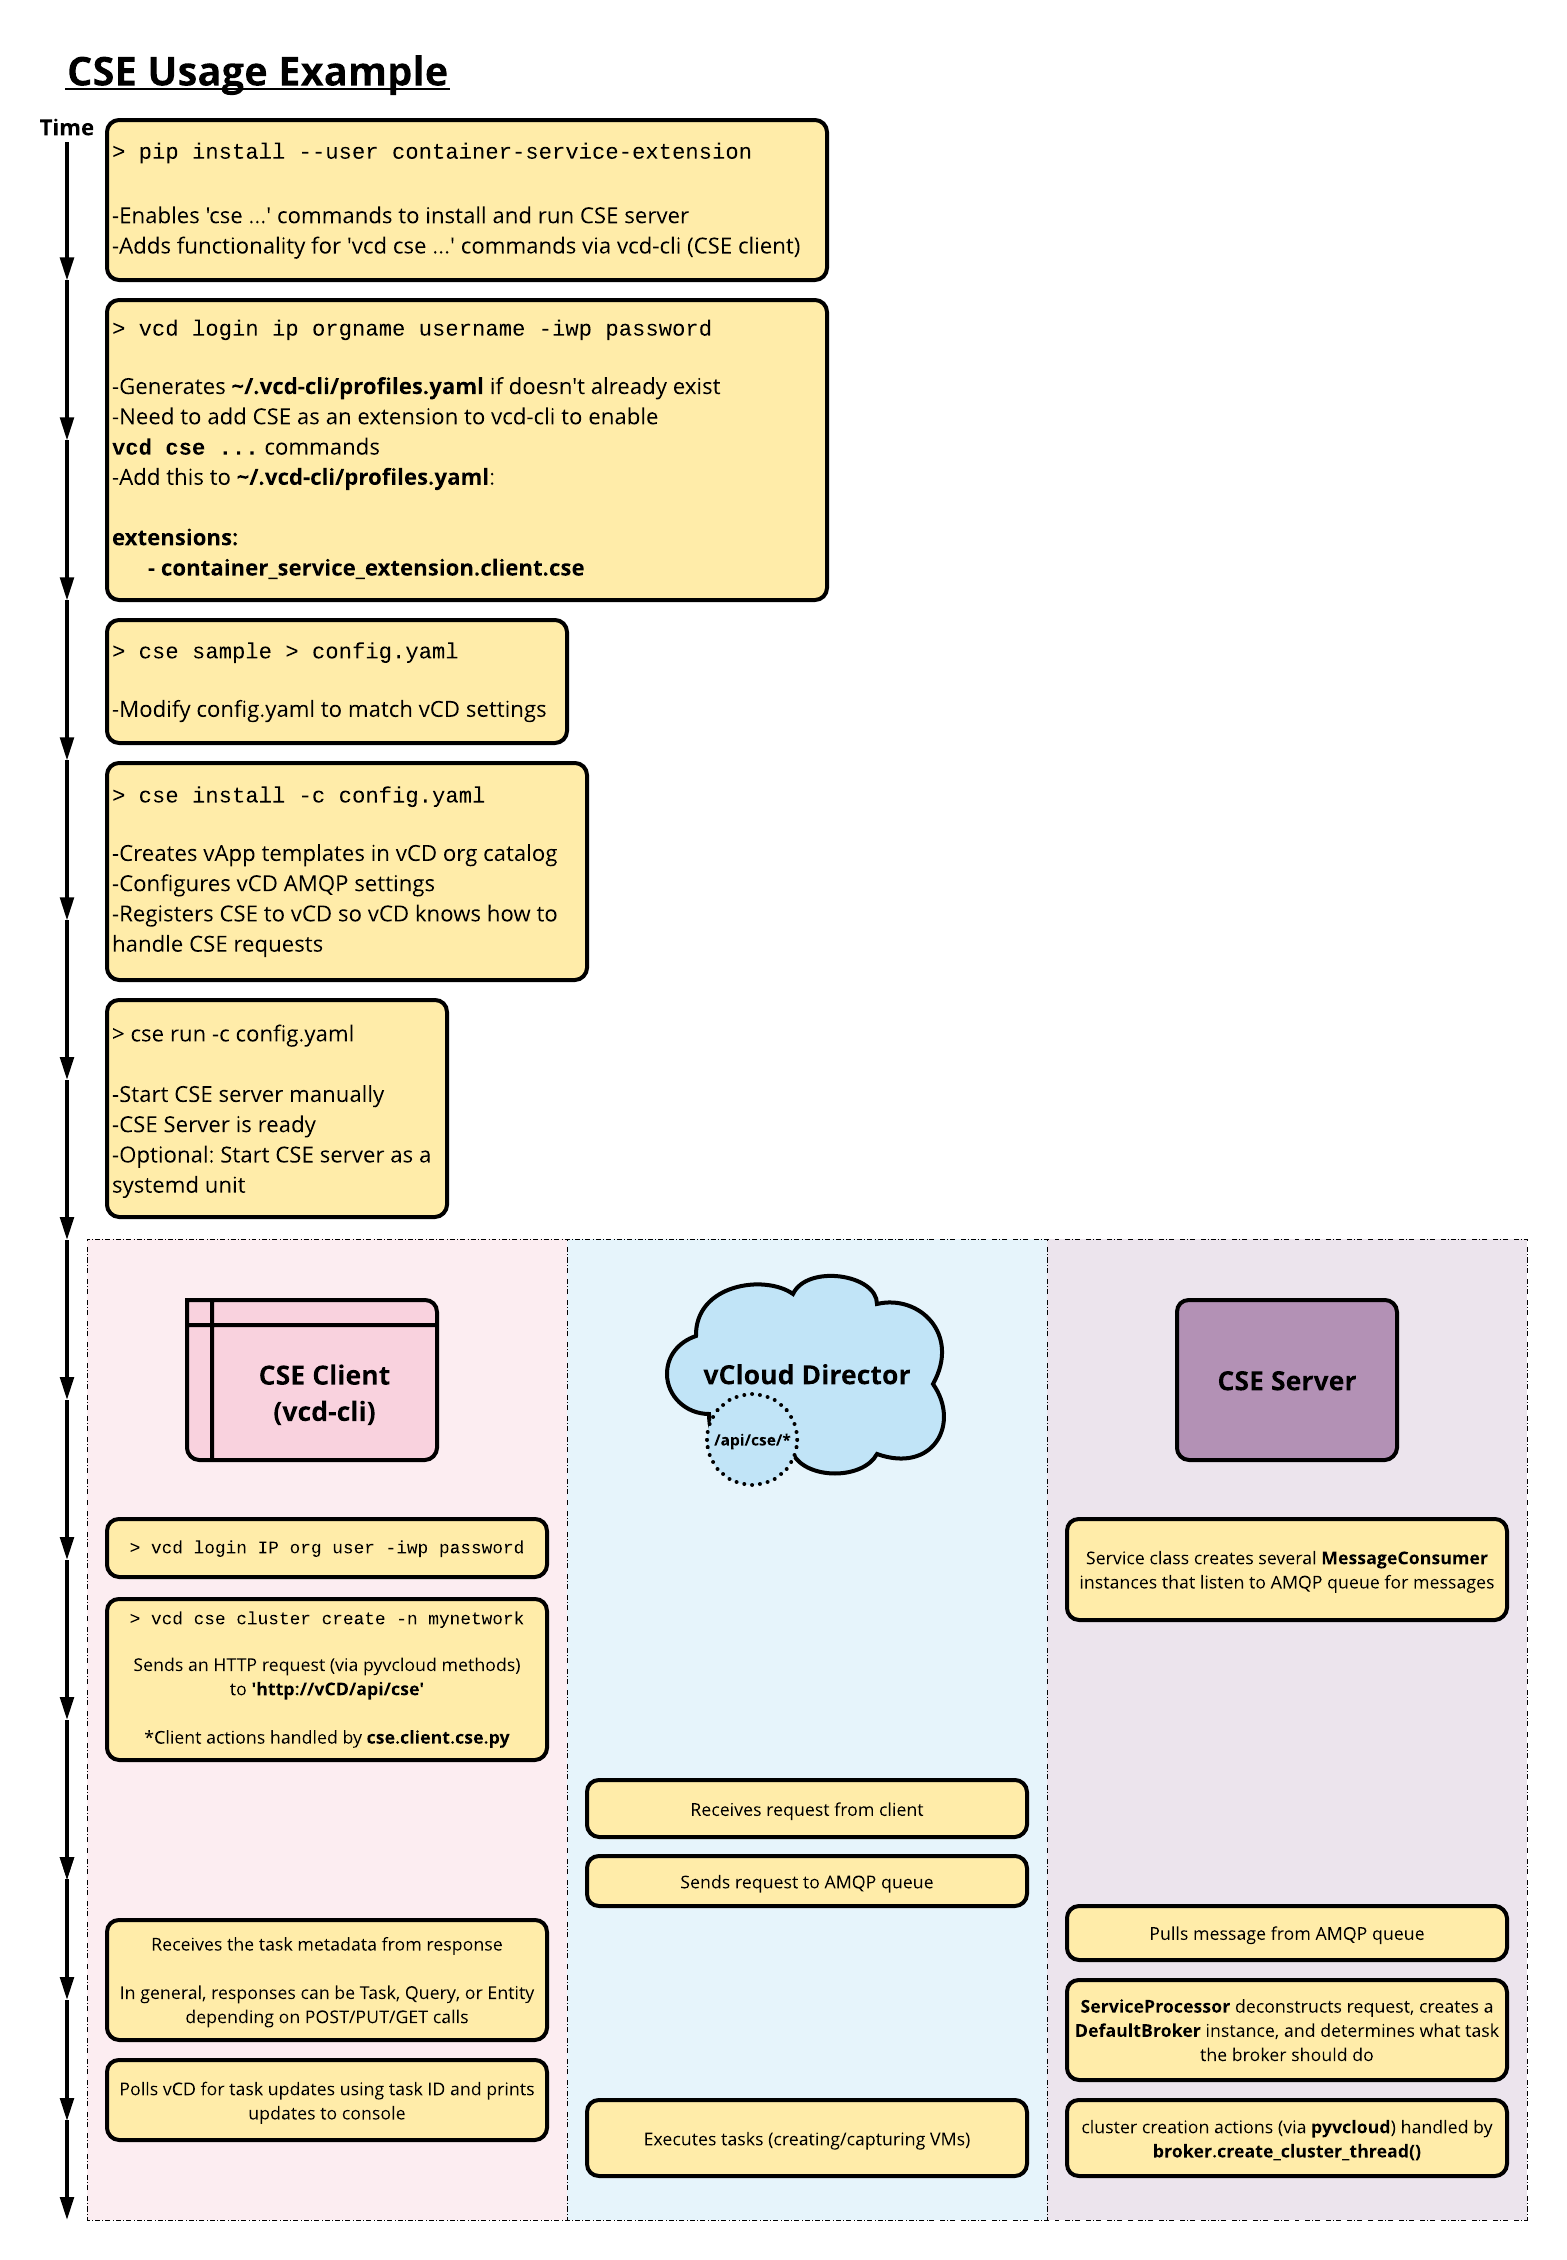
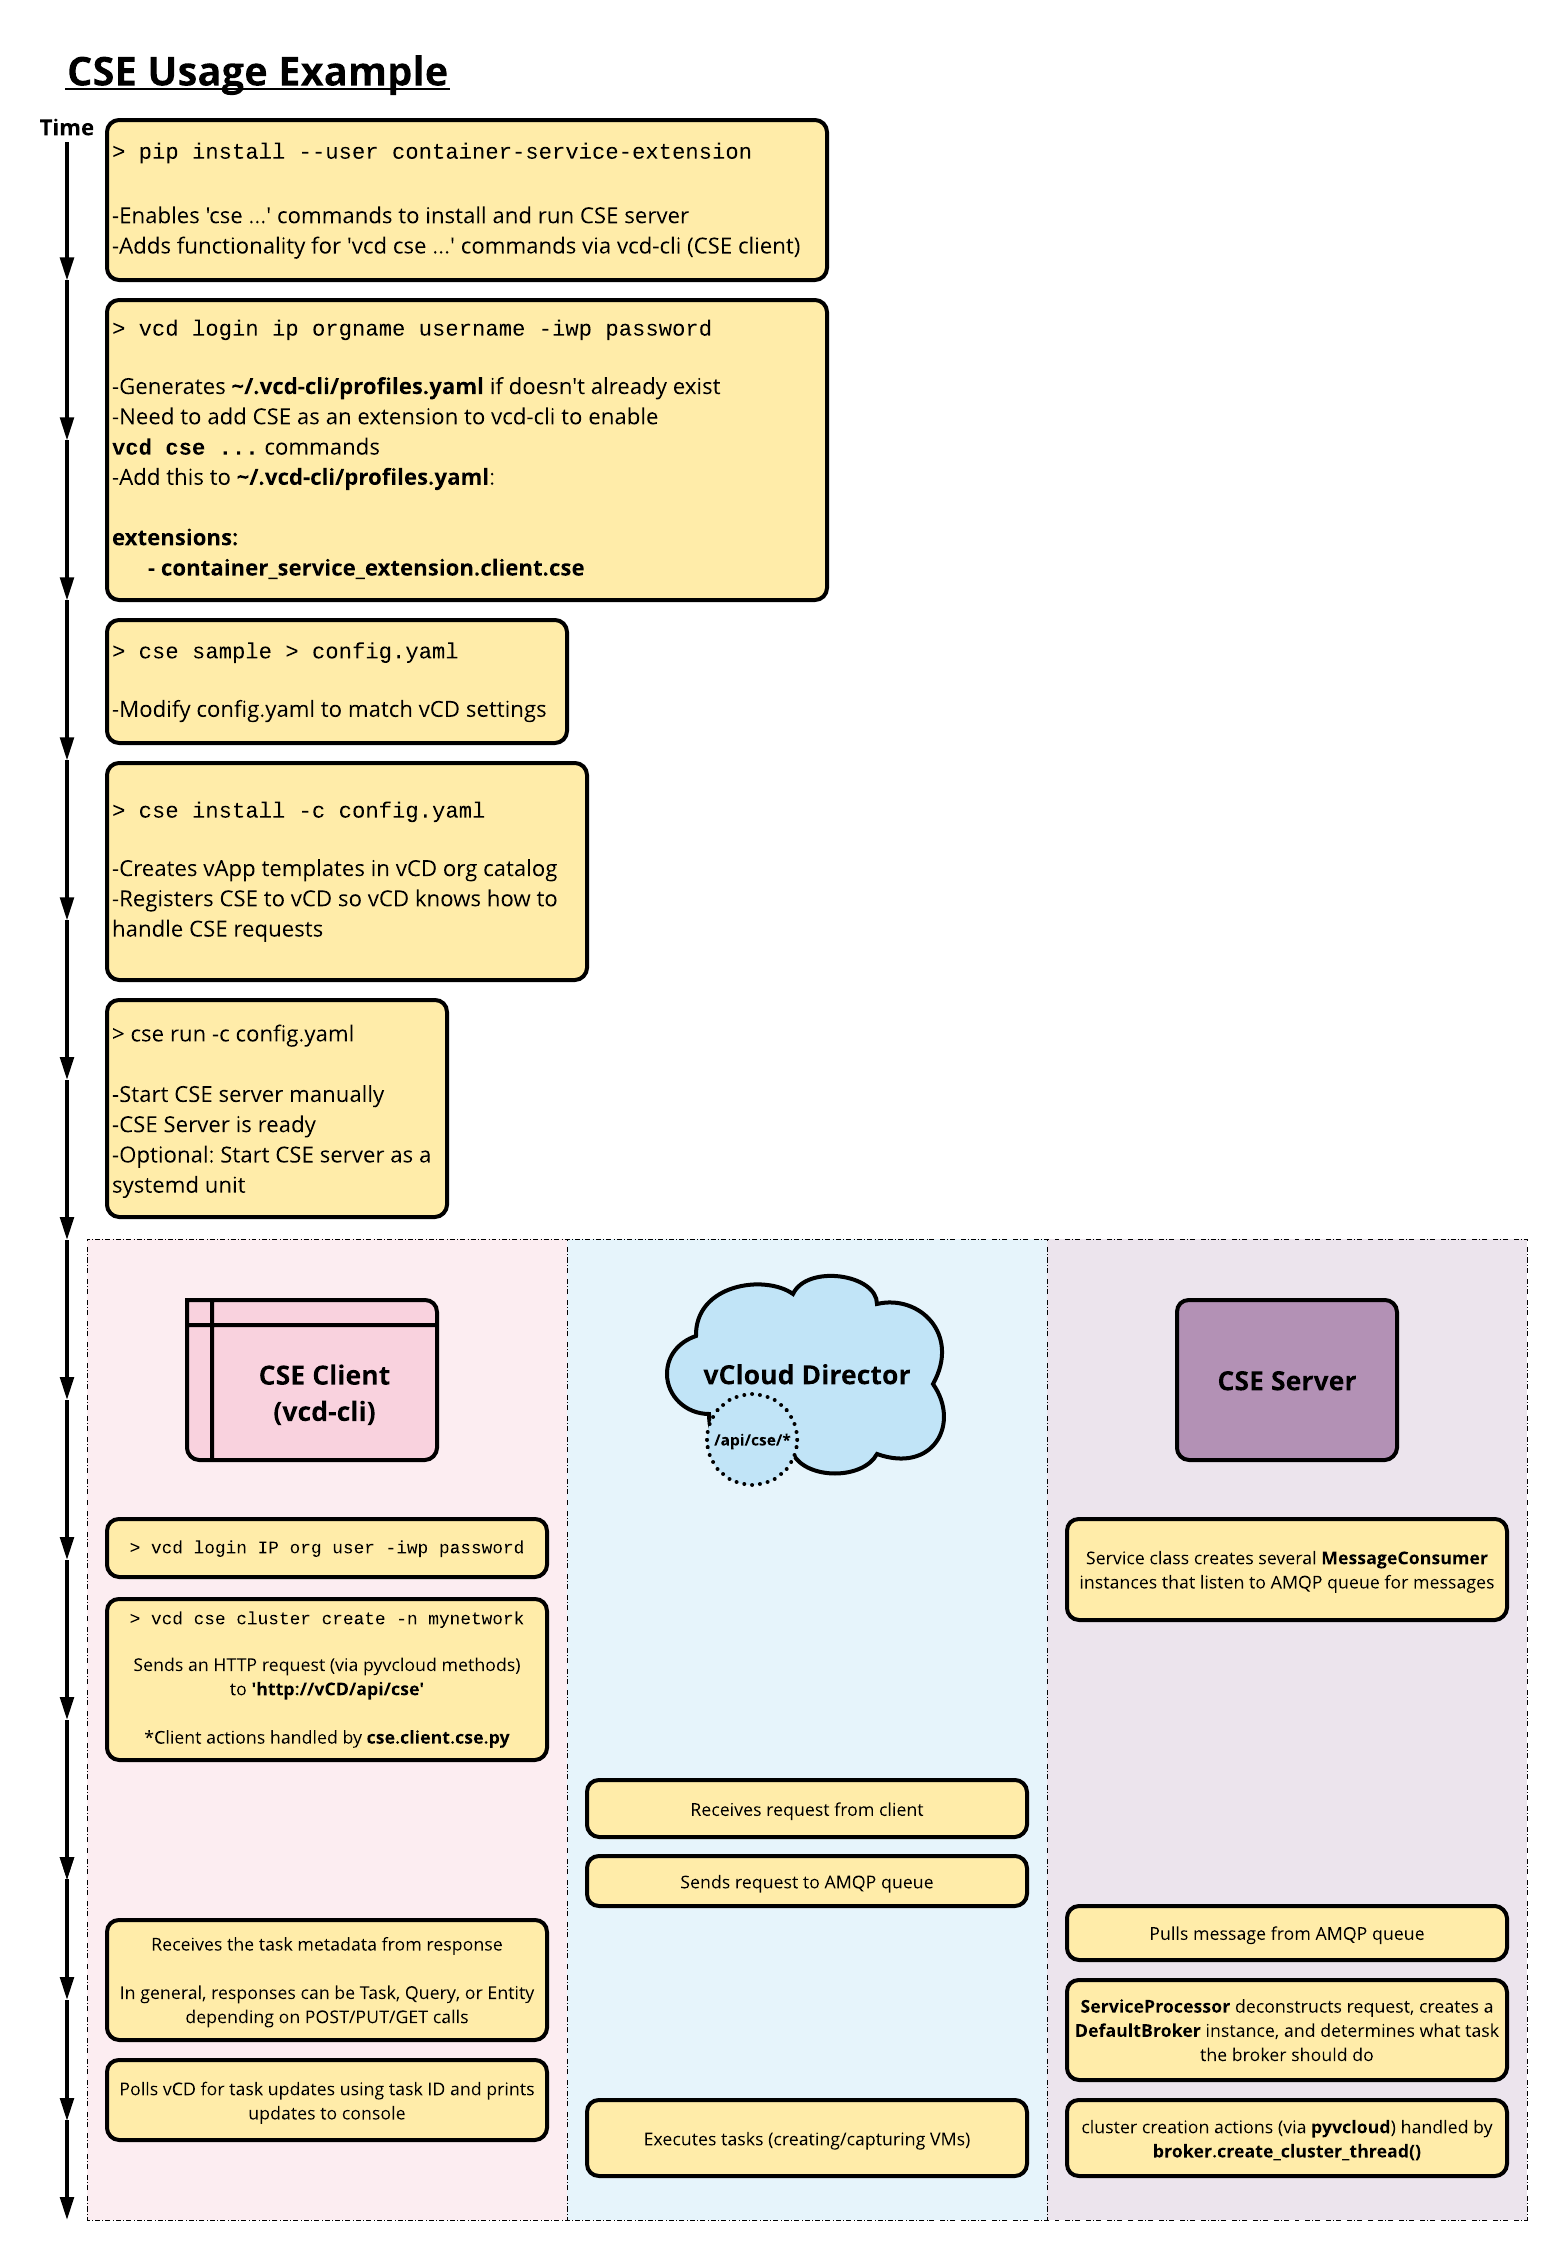
Remove vCD AMQP configuration from CSE workflows
Update docs to reflect that we do not configure vCD AMQP anymore.
CSE should not be updating vCD AMQP configuration, as that
may break functionality for other existing extensions.

Changed region(s): [[0.0613, 0.3407, 0.3676, 0.4336]]

diff --git a/container_service_extension/cse.py b/container_service_extension/cse.py
@@ -48,10 +48,6 @@ def cli(ctx):
             private key have access (--ssh-key is required when --no-capture
             is used).
 \b
-        cse install --amqp skip --ext config
-            Install CSE, but skip amqp configuration step and register CSE to
-            vCD without prompting.
-\b
         cse check
             Checks that 'config.yaml' is valid.
 \b
@@ -194,13 +190,6 @@ def check(ctx, config, check_install, template):
     help='SSH public key to connect to the guest OS on the VM'
 )
 @click.option(
-    '-a',
-    '--amqp',
-    'amqp_install',
-    default='prompt',
-    type=click.Choice(['prompt', 'skip', 'config']),
-    help='AMQP configuration')
-@click.option(
     '-e',
     '--ext',
     'ext_install',
@@ -208,7 +197,7 @@ def check(ctx, config, check_install, template):
     type=click.Choice(['prompt', 'skip', 'config']),
     help='API Extension configuration')
 def install(ctx, config, template, update, no_capture, ssh_key_file,
-            amqp_install, ext_install):
+            ext_install):
     """Install CSE on vCloud Director."""
     if no_capture and ssh_key_file is None:
         click.echo('Must provide ssh-key file (using --ssh-key OR -k) if '
@@ -220,7 +209,7 @@ def install(ctx, config, template, update, no_capture, ssh_key_file,
             ssh_key = ssh_key_file.read()
         install_cse(ctx, config_file_name=config, template_name=template,
                     update=update, no_capture=no_capture, ssh_key=ssh_key,
-                    amqp_install=amqp_install, ext_install=ext_install)
+                    ext_install=ext_install)
 
 
 @cli.command(short_help='run service')

diff --git a/container_service_extension/configure_cse.py b/container_service_extension/configure_cse.py
@@ -456,7 +456,7 @@ def check_cse_installation(config, check_template='*'):
 
 def install_cse(ctx, config_file_name='config.yaml', template_name='*',
                 update=False, no_capture=False, ssh_key=None,
-                amqp_install='prompt', ext_install='prompt'):
+                ext_install='prompt'):
     """Handle logistics for CSE installation.
 
     Handles decision making for configuring AMQP exchange/settings,
@@ -471,9 +471,6 @@ def install_cse(ctx, config_file_name='config.yaml', template_name='*',
     :param bool no_capture: if True, temporary vApp will not be captured or
         destroyed, so the user can ssh into and debug the VM.
     :param str ssh_key: public ssh key to place into template vApp(s).
-    :param str amqp_install: 'prompt' asks the user if vCD AMQP should be
-        configured. 'skip' does not configure vCD AMQP. 'config' configures
-        vCD AMQP without asking the user.
     :param str ext_install: 'prompt' asks the user if CSE should be registered
         to vCD. 'skip' does not register CSE to vCD. 'config' registers CSE
         to vCD without asking the user.

diff --git a/docs/CSE_ADMIN.md b/docs/CSE_ADMIN.md
@@ -447,7 +447,6 @@ The `cse install` command supports the following options:
 | \--update     | -u    | n/a                      | Recreate templates during installation                                                                                                                     | False                                         |
 | \--no-capture | -n    | n/a                      | Don't capture the temporary vApp as a template   (Leaves it standing for debugging purposes)                                                               | False                                         |
 | \--ssh-key    | -k    | path/to/ssh-key.pub      | ssh-key file to use for vm access   (root password ssh access is disabled for security reasons)                                                            | None                                          |
-| \--amqp       | -a    | prompt OR skip OR config | **prompt**: ask before configuring AMQP settings<br>**skip**: do not configure AMQP settings<br>**config**: configure AMQP without asking for confirmation | prompt                                        |
 | \--ext        | -e    | prompt OR skip OR config | **prompt**: ask before registering CSE<br>**skip**: do not register CSE<br>**config**: register CSE without asking for confirmation                        | prompt                                        |
 
 To monitor the vApp customization process, you can ssh into the temporary vApp. In the temporary vApp, the output of the customization script is captured in `/tmp/FILENAME.out` as well as `/tmp/FILENAME.err`:
